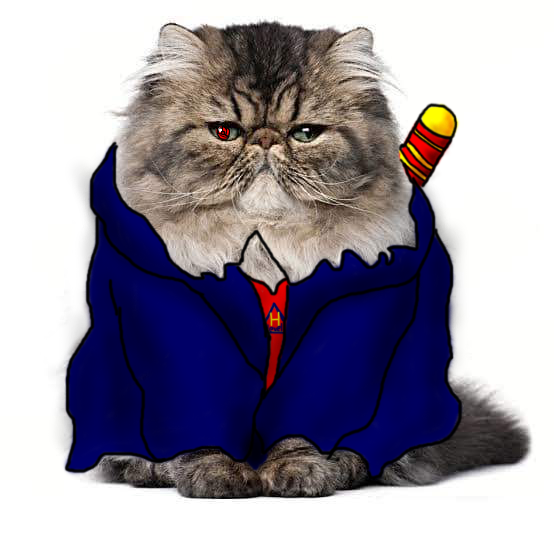
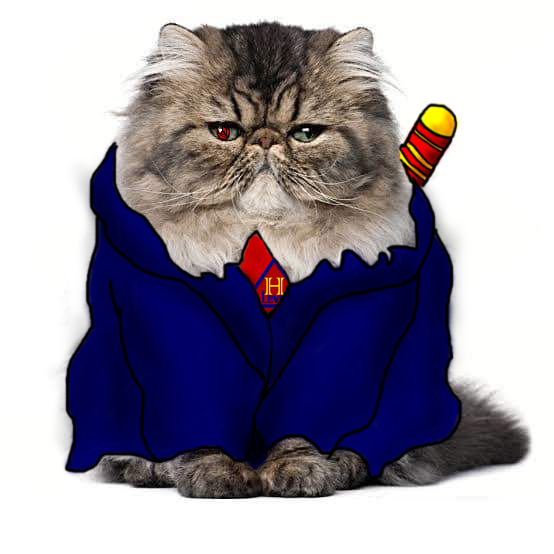
Cambios
Actualizado Gato Avatar.
Cambiado orden de la barra de busqueda de Hard-Level Learning

Changed region(s): [[0.4296, 0.4296, 0.5217, 0.7058]]

diff --git a/js/TFG/mainBucle.js b/js/TFG/mainBucle.js
@@ -1,0 +1,30 @@
+//namespace
+//main loop
+var mainBucle= {
+  idEjecucion:null,
+  ultimoRegistro: 0,
+  aps: 0,
+  fps: 0,
+  iterar: function(registroTemporal){
+    mainBucle.idEjecucion=window.requestAnimationFrame(mainBucle.iterar);
+
+    mainBucle.actualizar(registroTemporal);
+    mainBucle.dibujar();
+    if(registroTemporal - mainBucle.ultimoRegistro>999)
+    {
+      mainBucle.ultimoRegistro=registroTemporal;
+      console.log("APS: "+ mainBucle.aps + " FPS:" + mainBucle.fps);
+      mainBucle.aps=0;
+      mainBucle.fps=0;
+    }
+  },
+  detener: function(){
+
+  },
+  actualizar: function(registroTemporal){
+    mainBucle.aps++;
+  },
+  dibujar: function(registroTemporal){
+    mainBucle.fps++;
+  }
+}

diff --git a/js/TFG/rectangulo.js b/js/TFG/rectangulo.js
@@ -1,0 +1,14 @@
+function rectangulo(x, y, ancho, alto)
+{
+    this.x=x;
+    this.y=y;
+    this.ancho=ancho;
+    this.alto=alto;
+    this.id="r"+x+y;
+
+}
+rectangulo.prototype.insetarDOM = function(){
+  var div = "<div id='" +this.id+ "'></div>";
+  var html= document.getElementById("juego").innerHTML;
+  var color= "#"+ Math.floor(Math.random() * 16777215).toString(16);
+}

diff --git a/js/TFG/TFG.js b/js/TFG/TFG.js
@@ -1,0 +1,12 @@
+
+
+
+document.addEventListener("DOMContentLoaded", function() {
+  inicio.iniciarJuego();
+}, false);
+var inicio={
+  iniciarJuego: function(){
+  console.log("HOLI");
+  mainBucle.iterar();
+  }
+};

diff --git a/vistas/Learning.php b/vistas/Learning.php
@@ -6,9 +6,12 @@
   ?>
   <div class="container" style="background-color:#0B0B3B">
     <div class="row">
-      <div class="col-md-6">
+      <div class="col-sm-3">
+      <h2 align="left" href="<?php echo LEARNING; ?>" style="color:white; font-family:Agency Fb">HARD LEVEL LEARNING</h2>
+      </div>
+      <div class="col-sm-9">
           <form role="form" method="post" action="<?php echo LEARNING; ?>"><br>
-              <div class="col-md-11">
+              <div class="col-sm-10">
                 <input type="text" name="busqueda" id="busqueda" class="form-control" placeholder="¿Qué estás buscando?" value="<?php
                 if(isset($_POST["buscar"]))
                 {
@@ -16,16 +19,10 @@
                 }
                  ?>" autofocus><br>
               </div>
-              <div class="col-md-1 text-center" >
+              <div class="col-sm-2 text-center" >
                 <button type="submit" name="buscar" class="btn btn-bg btn-primary" style="border:none; background-color:#0B0B3B !important;"><span class="glyphicon glyphicon-search" style="color:white"></span></button>
               </div>
           </form>
-      </div>
-      <div class="col-md-4">
-      <h2 align="right" href="<?php echo LEARNING; ?>" style="color:white; font-family:Agency Fb">HARD LEVEL LEARNING</h2>
-      </div>
-      <div class="col-md-2">
-
       </div>
     </div>
   </div>

diff --git a/Plantillas/head.php b/Plantillas/head.php
@@ -3,7 +3,7 @@
    <meta charset="utf-8"/>
    <meta http-equiv="X-UA-Compatible" content="IE=edge"/>
    <meta name="viewport" content="width=device-width, initial-scale=1"/>
-
+   <meta name="Description" content="Hard-Level plataforma de soluciones online">
    <link href="<?php echo RUTACSS; ?>estilos.css" rel="stylesheet" >
    <link href="<?php echo RUTACSS; ?>bootstrap.min.css" rel="stylesheet">
 

diff --git a/vistas/TheFifthGuild.php b/vistas/TheFifthGuild.php
@@ -3,9 +3,11 @@ $P=2;
 include_once "Plantillas/head.php";
 include_once "Plantillas/bar.php";
  ?>
- <script type="text/javascript">
-  alert("HOLI");
- </script>
+ <div id="juego">
+ </div>
+ <script src="js/TFG/mainBucle.js"></script>
+ <script src="js/TFG/TFG.js"></script>
+
  <?php
 include_once "Plantillas/cierre.php";
   ?>
